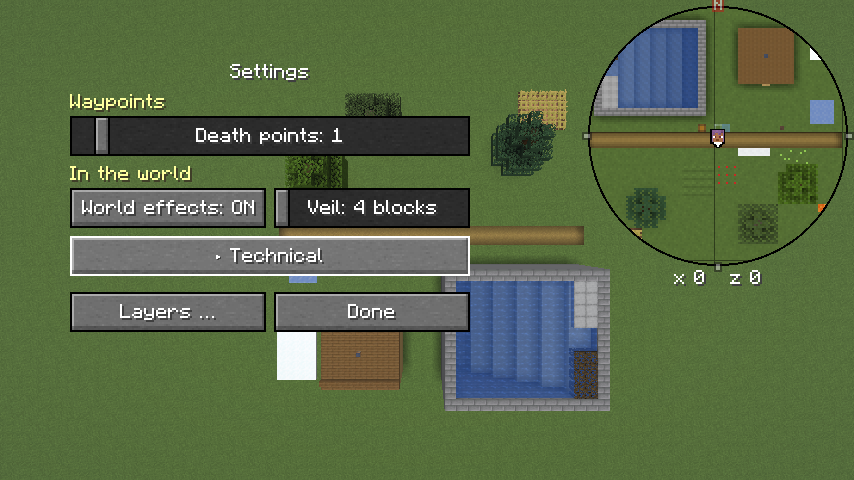
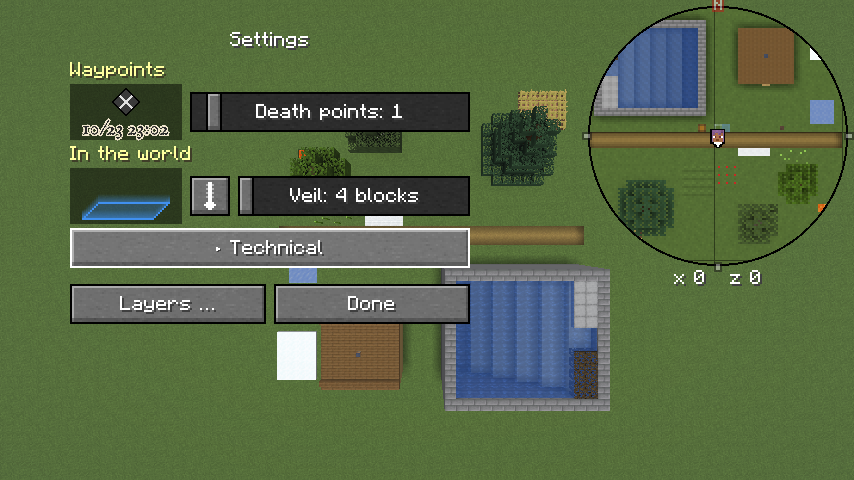
anzeige.png mit Todespunkt und Region
Aus dem Gametest Bilder in der CI mit -Pbilder, Branch bild/tod-1.

Changed region(s): [[0.0609, 0.0625, 0.6698, 0.7188], [0.7002, 0.375, 0.7916, 0.5], [0.9438, 0.4062, 0.9742, 0.4375]]

diff --git a/docs/minimap.md b/docs/minimap.md
@@ -99,7 +99,7 @@ es bei GUI-Massstab 4 nicht.
 - **Zeilen** 30 Einheiten hoch, das Bild 56 breit, die Regler 20 hoch in
   der Mitte der Zeile.
 
-![Das Untermenü über der Szene des Gametests, die Minimap rund mit Chunklinien und den Koordinaten darunter; unter „Wegpunkte“ der Todespunkt mit seiner Zeit und dem Regler „Todespunkte“, unter „In der Welt“ die Region mit Schleier, das Symbol „Effekte in der Welt“ und der Regler „Schleier“, darunter der zugeklappte Knopf „Technik“, unten „Ebenen …“ neben „Fertig“](bilder/anzeige.png)
+![Das Untermenü über der Szene des Gametests, die Minimap rund mit Chunklinien und den Koordinaten darunter; unter „Wegpunkte“ der Todespunkt mit seiner Zeit und dem Regler „Todespunkte“, unter „In der Welt“ die Region mit Schleier, das Symbol „Effekte in der Welt“ und der Regler „Schleier“, darunter der zugeklappte Knopf „Technik“, unten „Ebenen …“ neben „Fertig“; aufgenommen in der CI mit `-Pbilder`, Sprache Englisch](bilder/anzeige.png)
 
 | Einstellung | Vorgabe | tut |
 |---|---|---|
